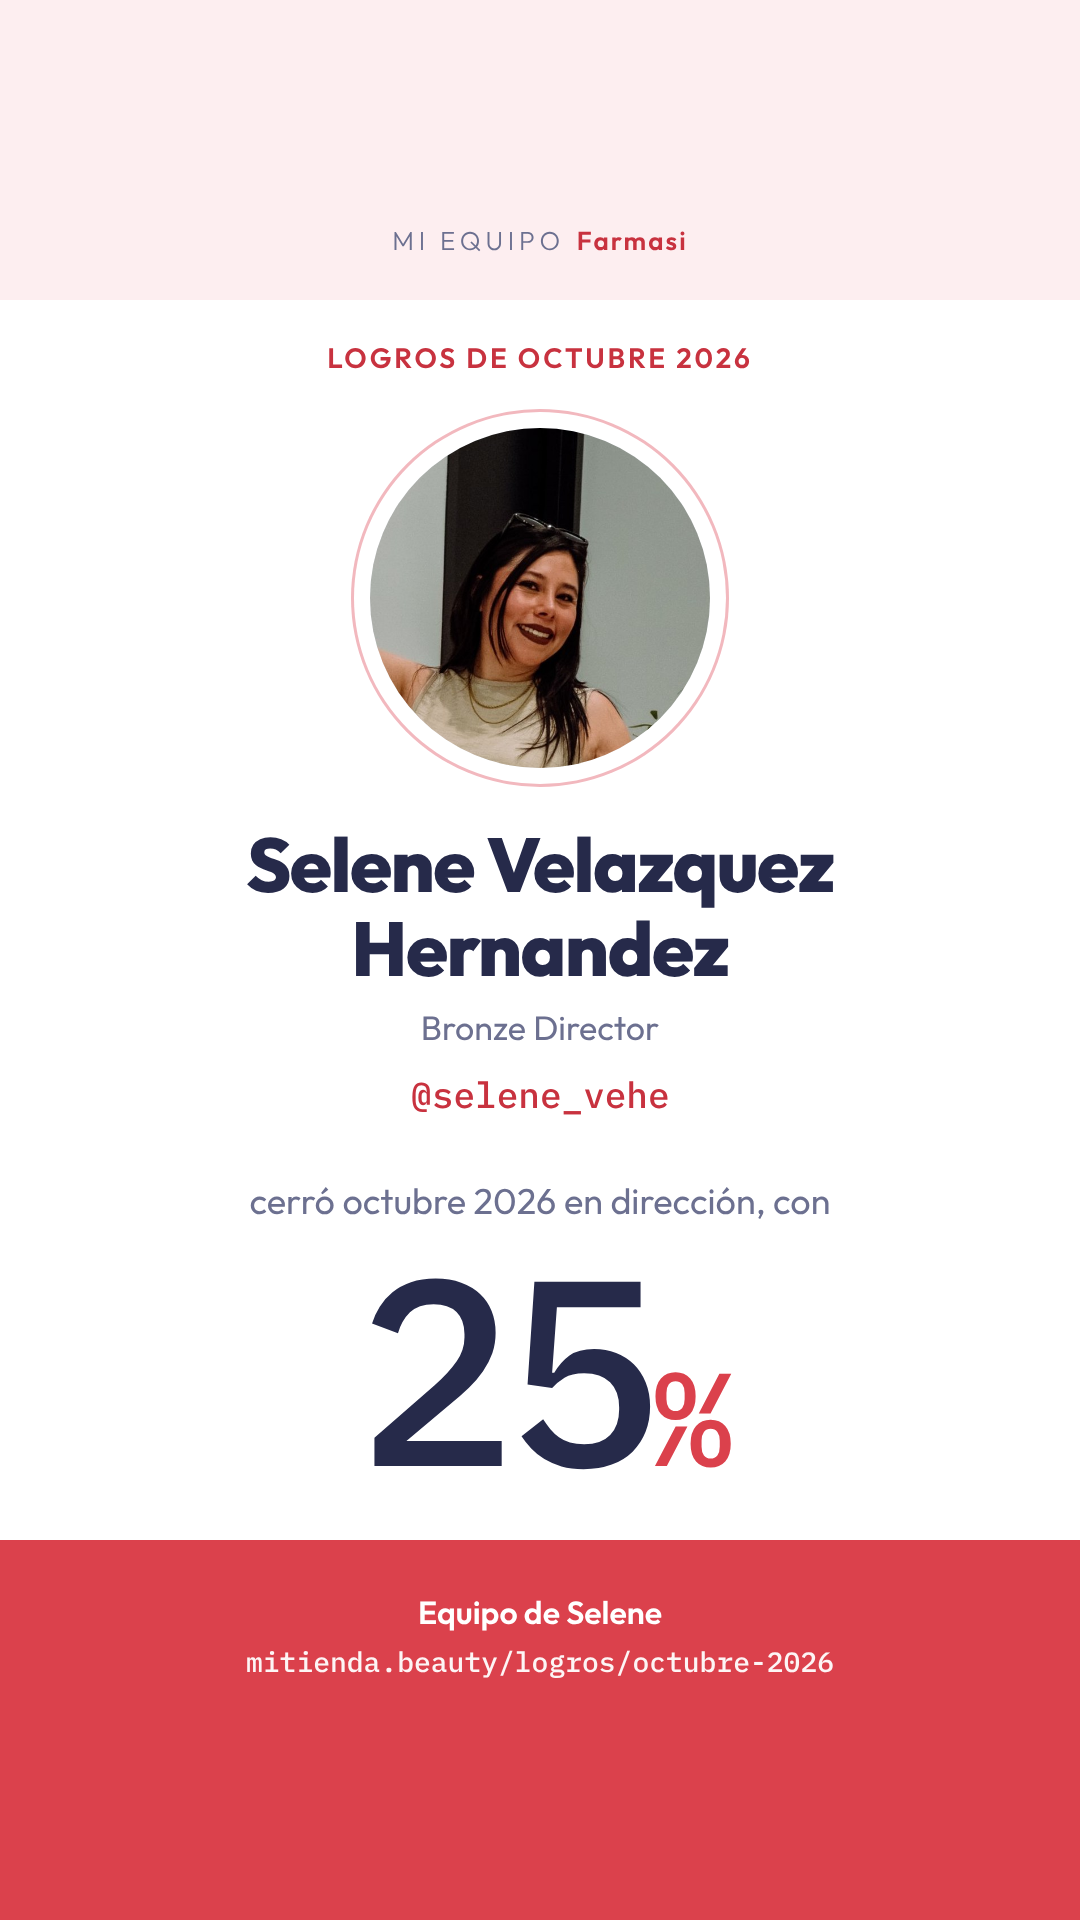
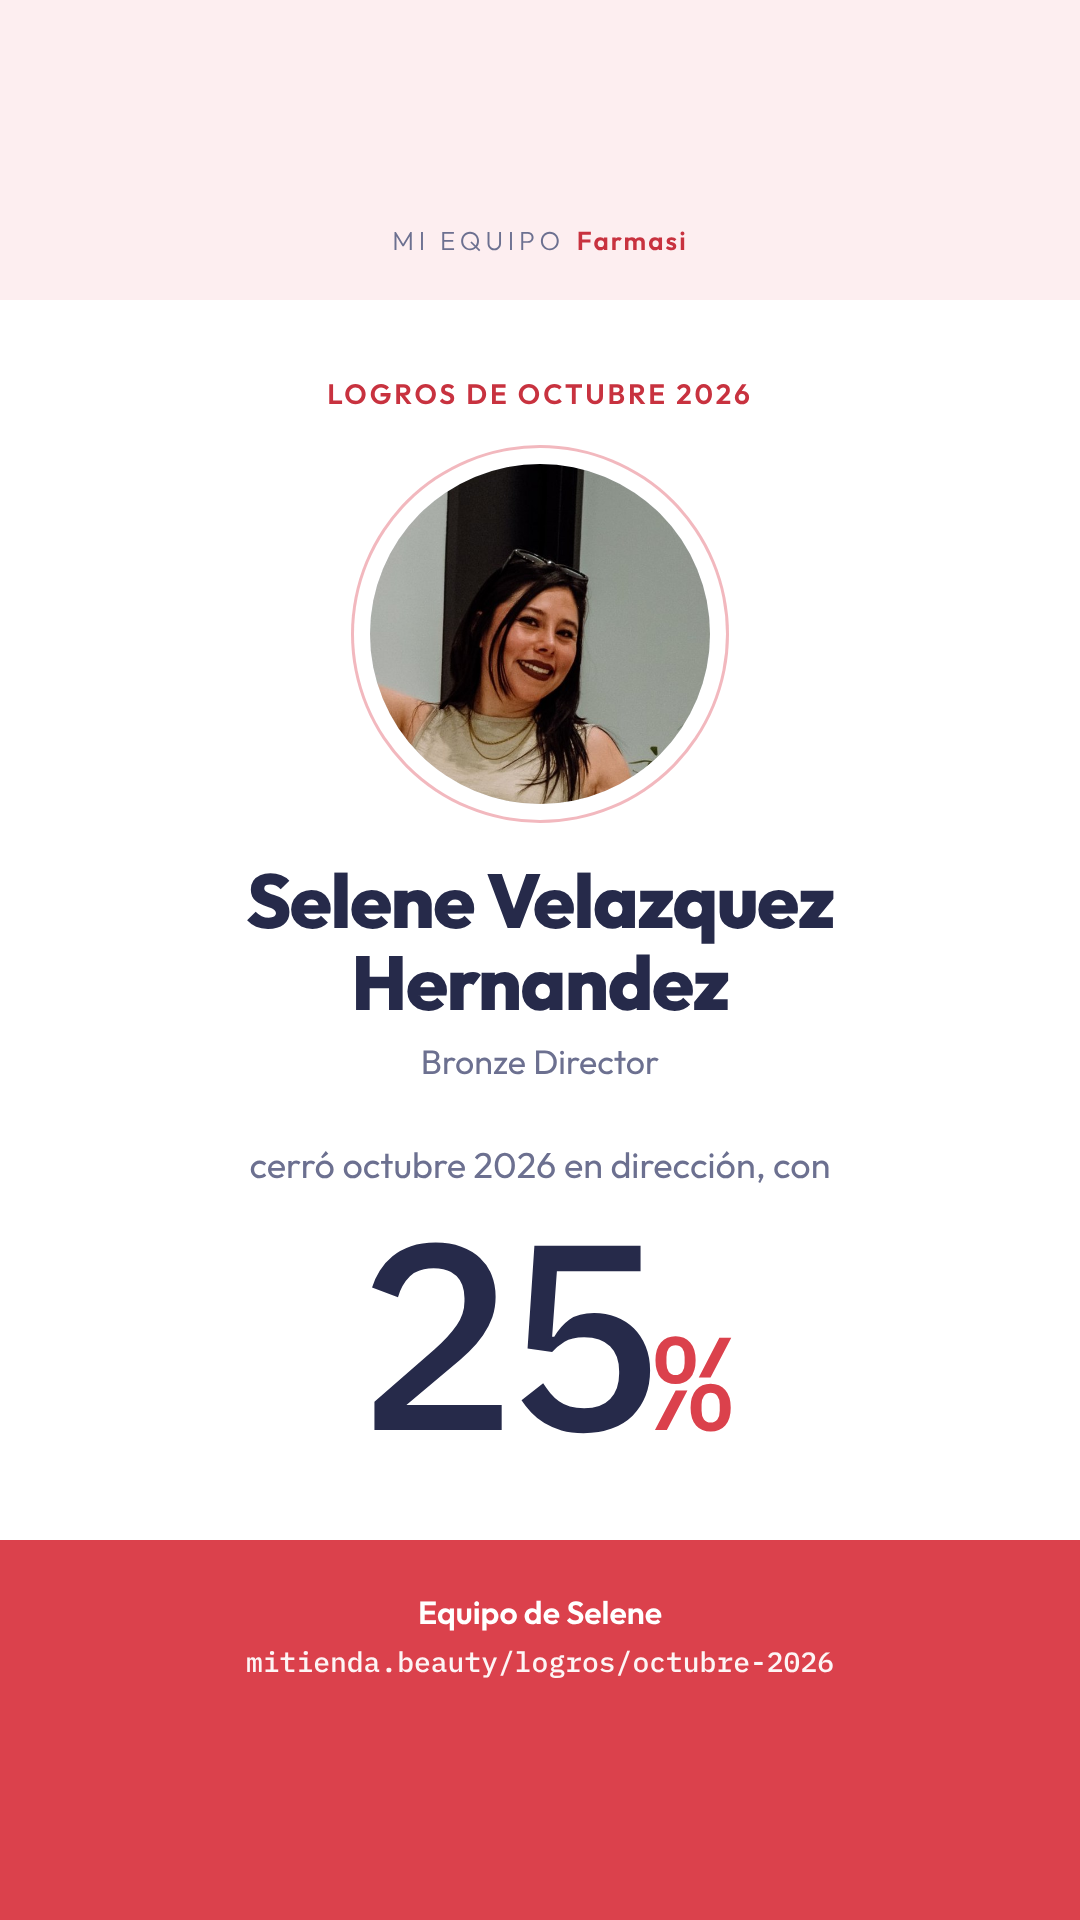
Logros stories: sin @ por ahora (se activan con 'ig' en el JSON del mes)
Claude-Session: https://claude.ai/code/session_013dYAEGtXwiPF3oi9AiPhWk

Changed region(s): [[0.2139, 0.1562, 0.7944, 0.7812]]

diff --git a/logros/octubre-2026/stories/selene-velazquez-hernandez.html b/logros/octubre-2026/stories/selene-velazquez-hernandez.html
@@ -36,7 +36,7 @@ h1{margin-top:28px;font-size:38px;line-height:1.08;font-weight:800;letter-spacin
   <div class="ava" aria-hidden="true">SV<img src="/fotos/sel.jpg" alt=""></div>
   <h1>Selene Velazquez Hernandez</h1>
   <p class="t">Bronze Director</p>
-  <p class="ig">@selene_vehe</p>
+  
   <p class="lvl">cerró octubre 2026 en dirección, con</p>
   <p class="pct">25<small>%</small></p>
 </div>
